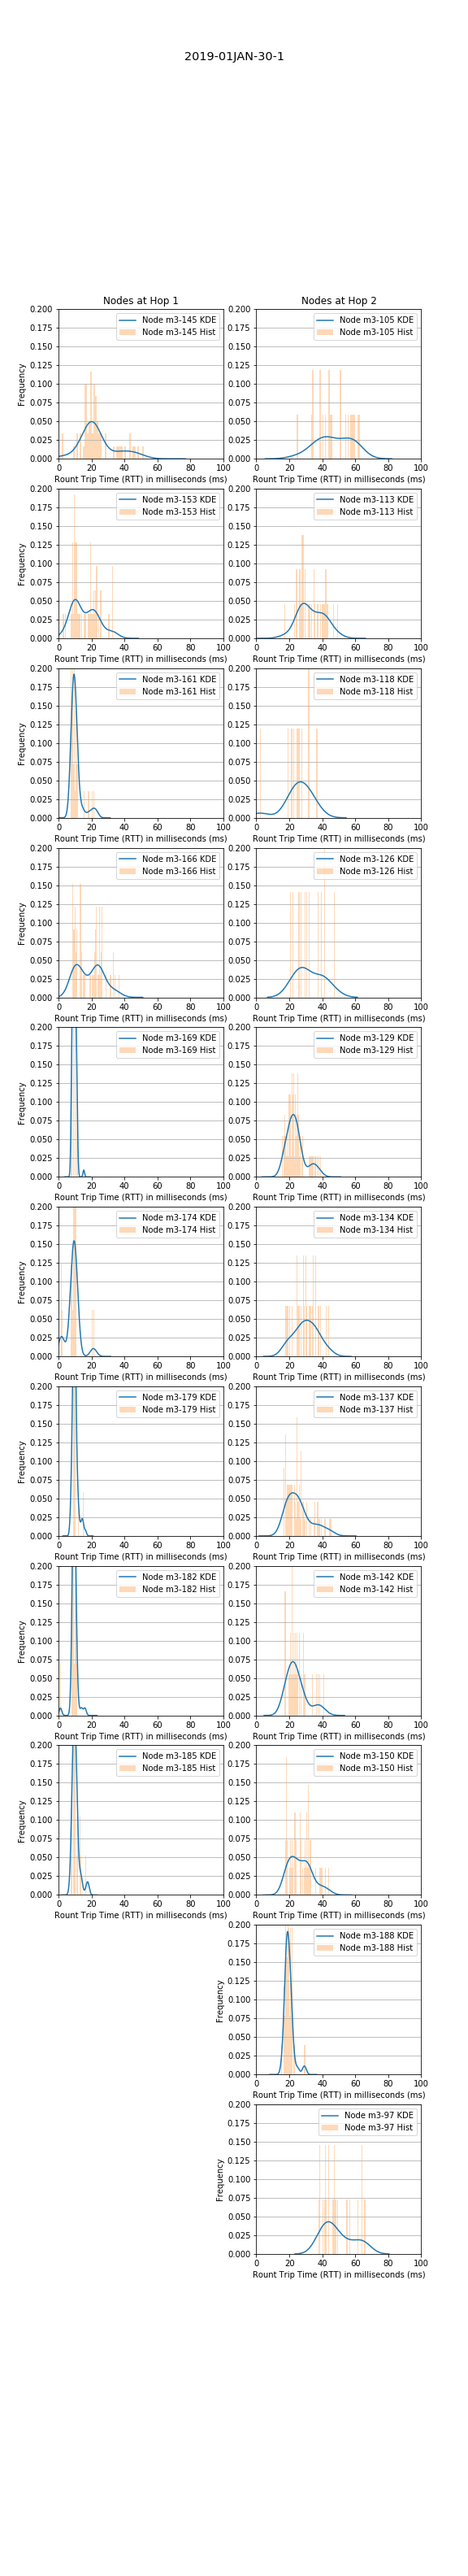
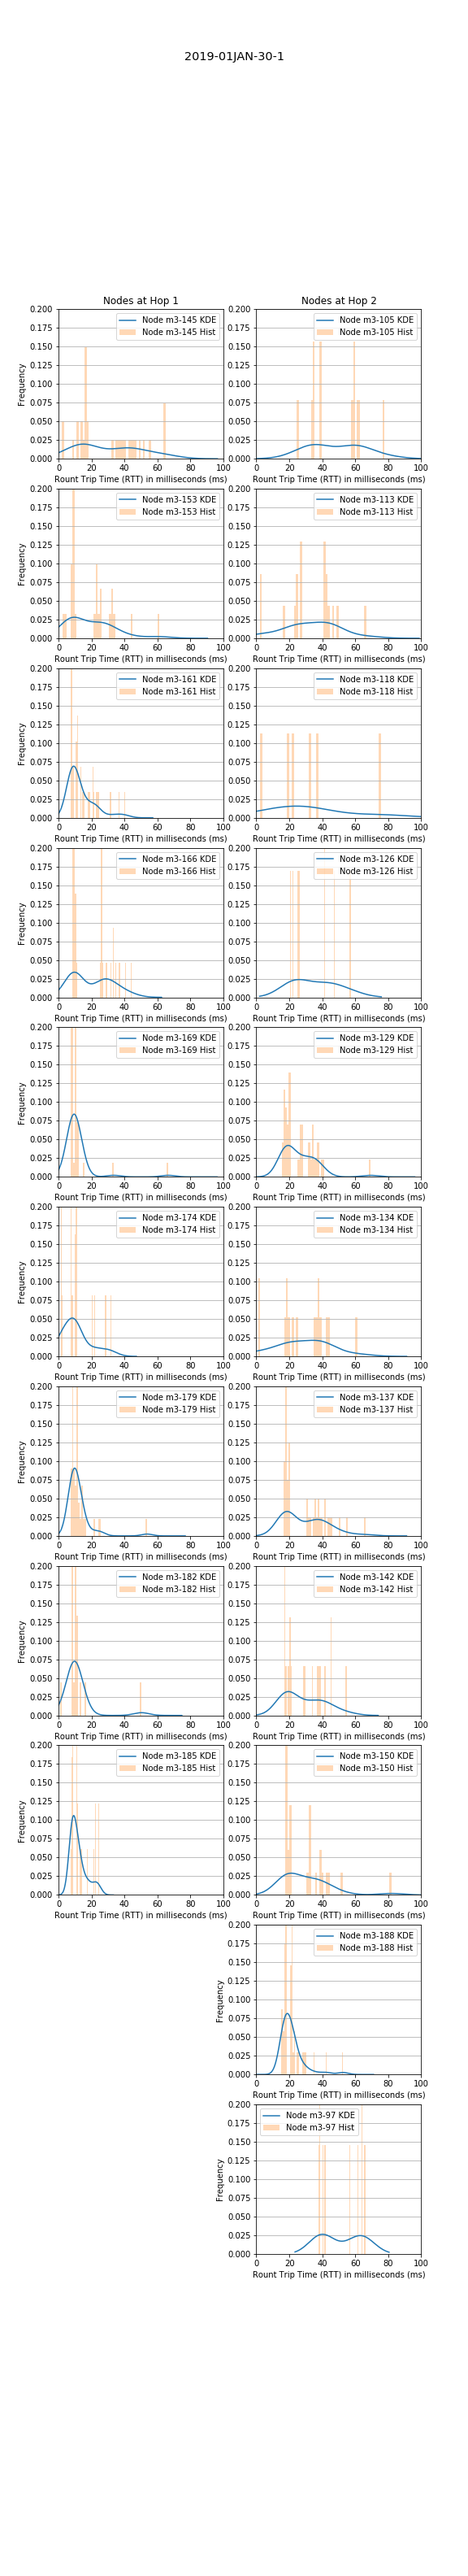
outliers and iqr

diff --git a/trace_analysis.py b/trace_analysis.py
@@ -60,6 +60,42 @@ def separate_outliers_by_node(packets_node):
     return clean_packets_node
 
 
+def compute_outliers_by_node(packets_node):
+    clean_packets_node = {}
+
+    for n in packets_node.keys():
+        # Returns two DataFrames containing standard values and outliers
+        mn = packets_node[n]['rtt'].mean()
+        std = packets_node[n]['rtt'].std()
+        upper = mn + 2 * std
+        lower = mn - 2 * std
+
+        packets_node[n]
+
+        # Mark x(t) as outlier if mean-2*std <= x(t) <? mean+2*std
+        # Maintain x(t) otherwise
+        clean_packets_node[n] = packets_node[n][(packets_node[n]['rtt'] >= upper) | (packets_node[n]['rtt'] <= lower)]
+
+    return clean_packets_node
+
+
+def compute_iqr_outliers_by_node(packets_node):
+    iqr = {}
+
+    for n in packets_node.keys():
+    	# Returns two DataFrames containing standard values and outliers
+        q1 = packets_node[n]['rtt'].quantile(.25)
+        q3 = packets_node[n]['rtt'].quantile(.75)
+        
+        packets_node[n]
+
+        # Mark x(t) as outlier if mean-2*std <= x(t) <? mean+2*std
+        # Maintain x(t) otherwise
+        iqr[n] = packets_node[n][(packets_node[n]['rtt'] < q1) | (packets_node[n]['rtt'] > q3)]
+
+    return iqr
+
+
 
 
 def importCooja(directory):
